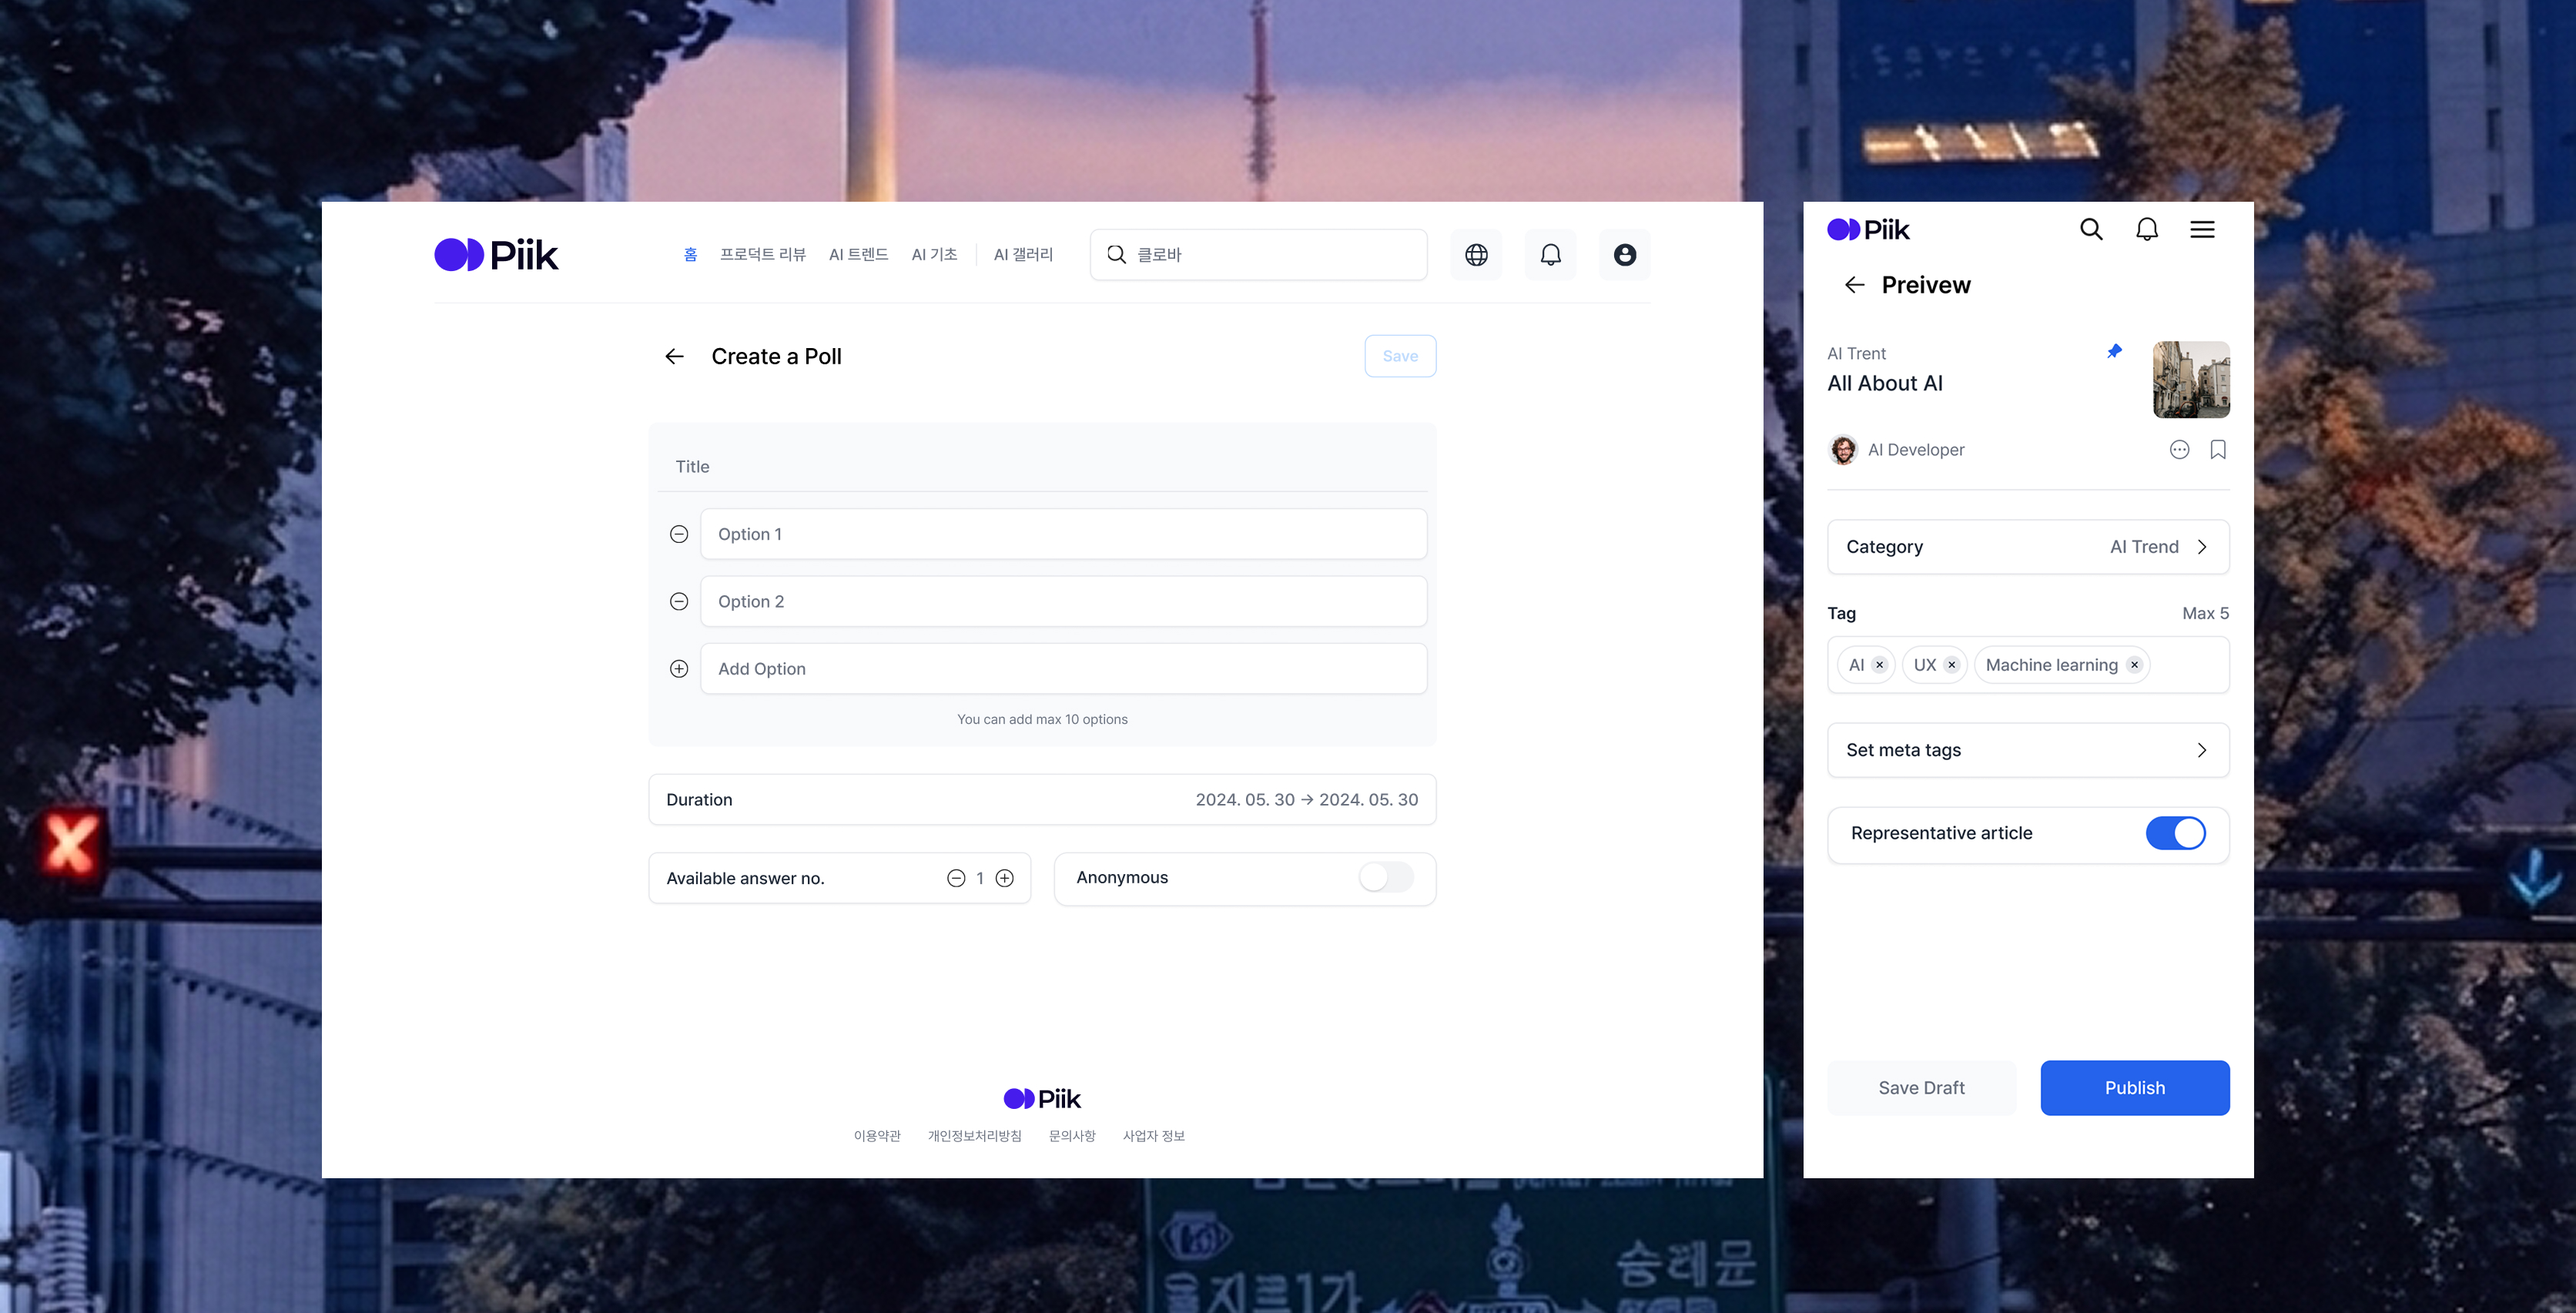
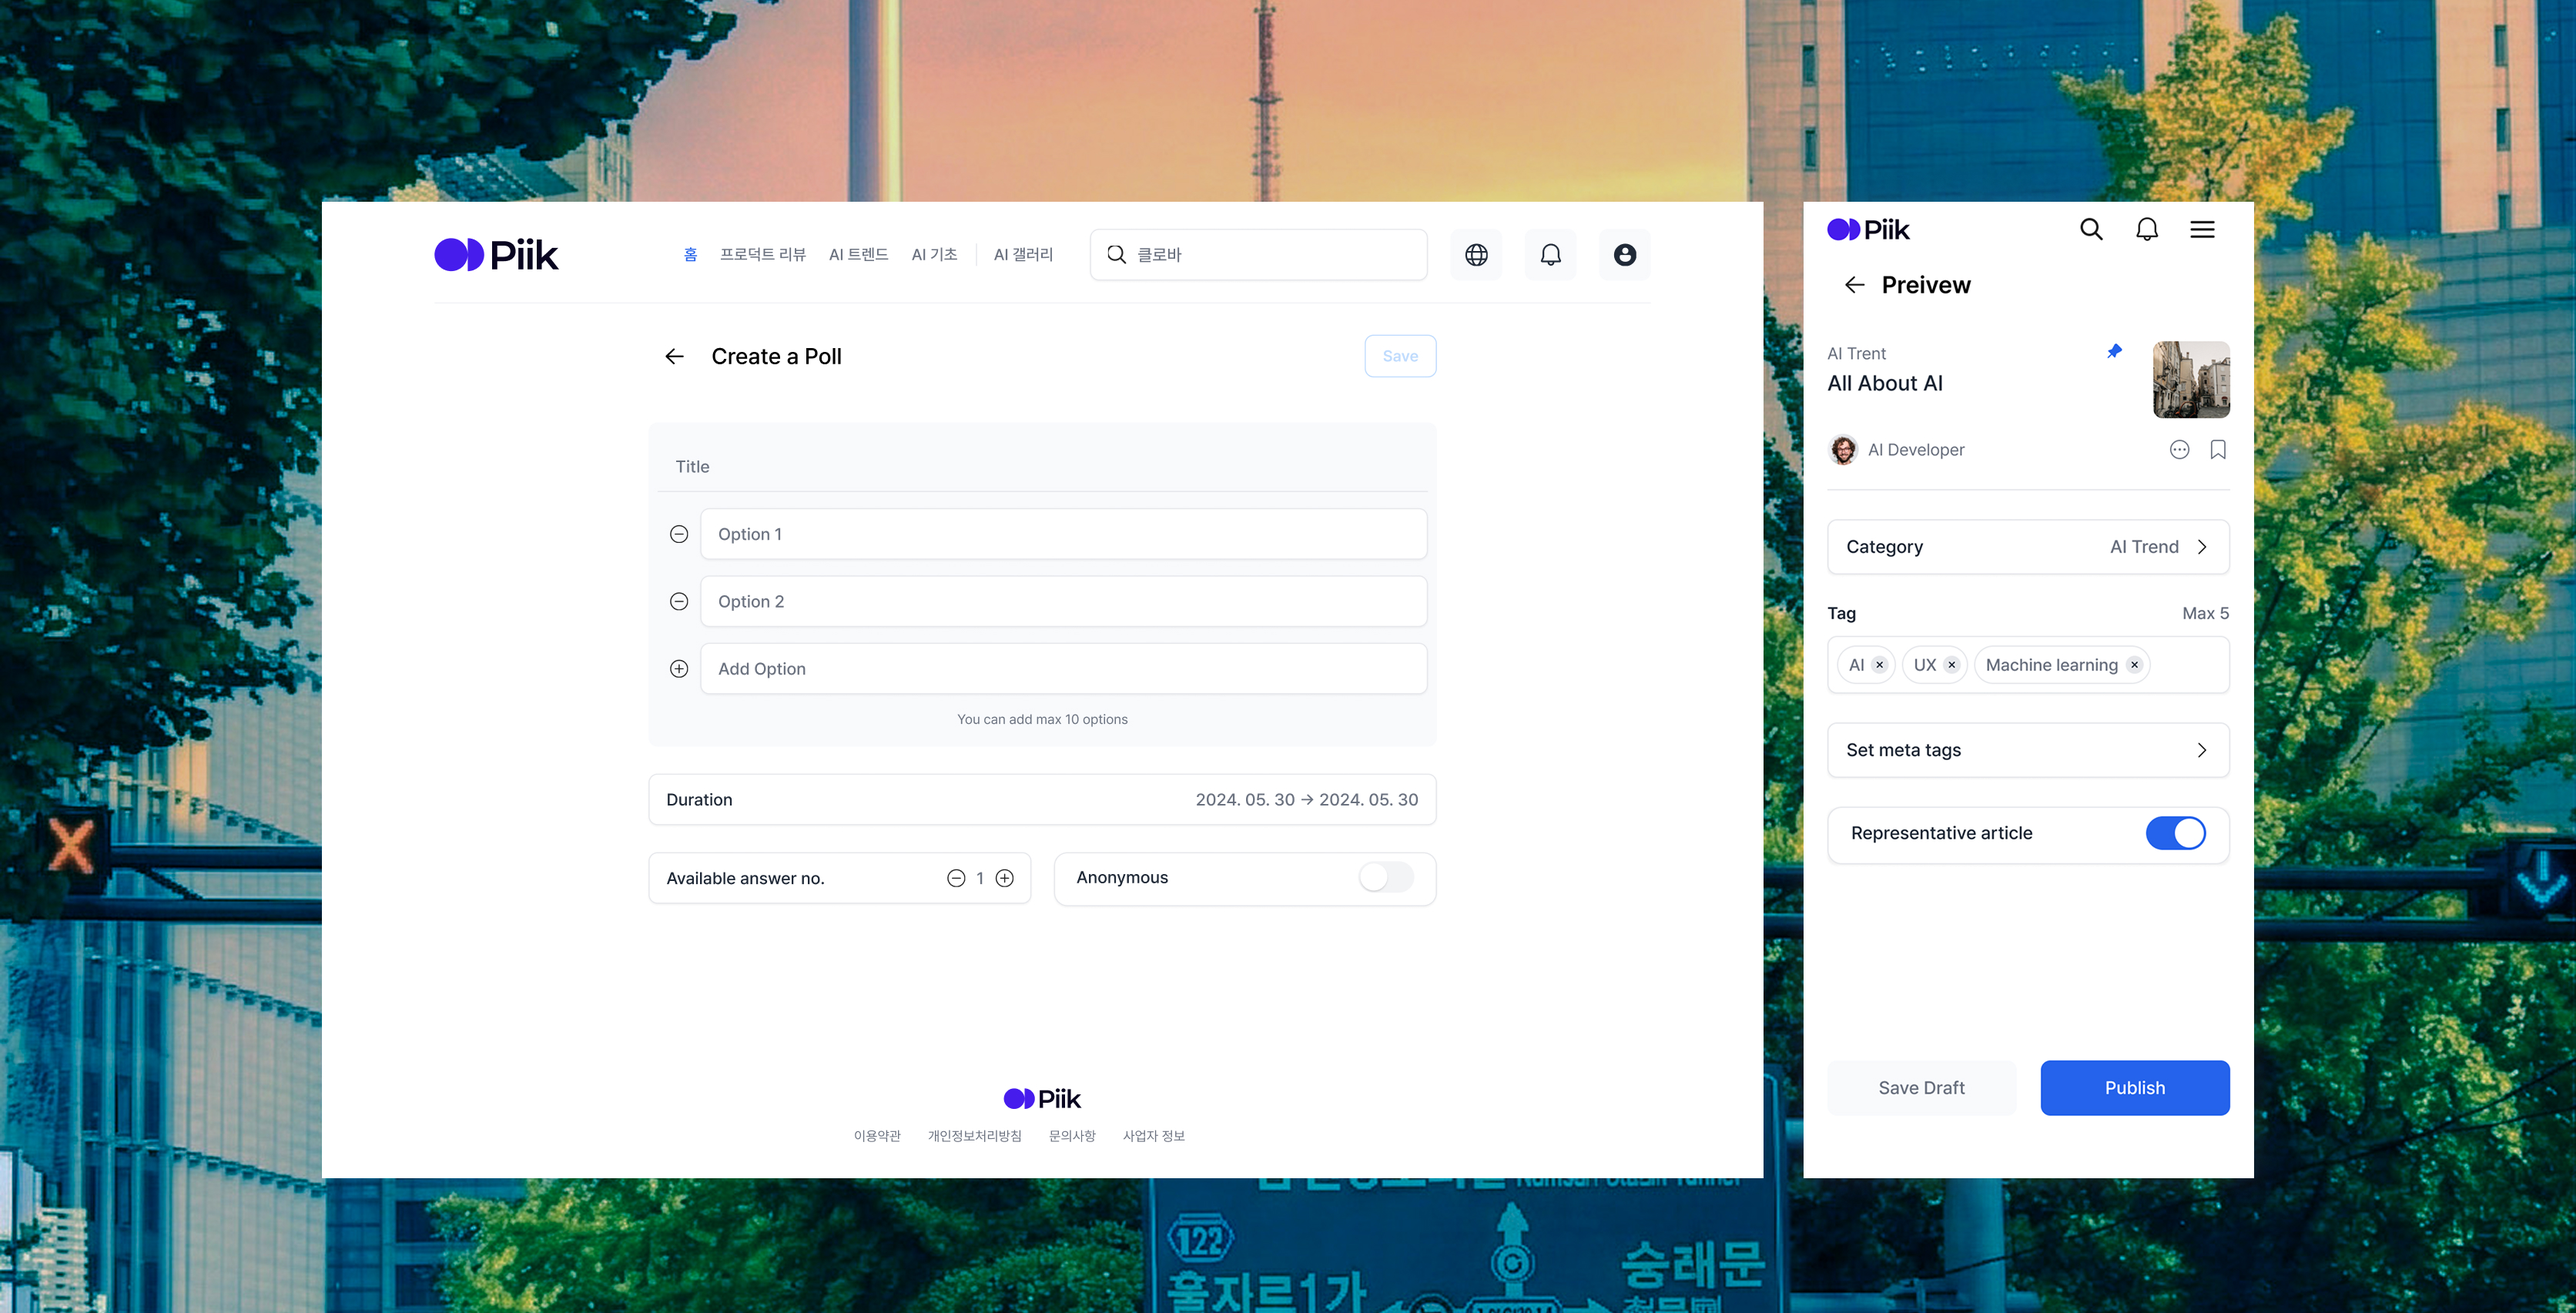
sync changes

diff --git a/src/context/PageThemeContext.tsx b/src/context/PageThemeContext.tsx
@@ -9,20 +9,38 @@ import {
 /** Keep in sync with the inline script in `index.html`. */
 export const THEME_STORAGE_KEY = 'portfolio-theme'
 
-/** Dark unless the user explicitly saved `light` in storage. */
-export function readStoredThemePrefersDark(): boolean {
+export const SYSTEM_DARK_QUERY = '(prefers-color-scheme: dark)'
+
+function readStoredThemeOverride(): 'light' | 'dark' | null {
   try {
     const raw = localStorage.getItem(THEME_STORAGE_KEY)
-    if (raw === 'light') return false
-    return true
+    if (raw === 'light' || raw === 'dark') return raw
+    return null
   } catch {
-    return true
+    return null
   }
 }
 
+export function readSystemPrefersDark(): boolean {
+  if (typeof window === 'undefined') return false
+  return window.matchMedia(SYSTEM_DARK_QUERY).matches
+}
+
+/** Saved override wins; otherwise follow OS light/dark preference. */
+export function resolveThemeIsDark(): boolean {
+  const override = readStoredThemeOverride()
+  if (override === 'light') return false
+  if (override === 'dark') return true
+  return readSystemPrefersDark()
+}
+
+/** @deprecated Prefer `resolveThemeIsDark` — kept for existing call sites. */
+export function readStoredThemePrefersDark(): boolean {
+  return resolveThemeIsDark()
+}
+
 function readInitialIsDark(): boolean {
-  if (typeof window === 'undefined') return true
-  return readStoredThemePrefersDark()
+  return resolveThemeIsDark()
 }
 
 export function applyDocumentTheme(isDark: boolean) {
@@ -47,7 +65,7 @@ interface PageThemeContextValue {
 }
 
 const PageThemeContext = createContext<PageThemeContextValue>({
-  isDark: true,
+  isDark: false,
   setIsDark: () => {},
   toggleTheme: () => {},
   setThemePersisted: () => {},
@@ -61,6 +79,18 @@ export function PageThemeProvider({ children }: { children: React.ReactNode }) {
   useLayoutEffect(() => {
     applyDocumentTheme(isDark)
   }, [isDark])
+
+  // When no saved override, track OS theme changes.
+  useLayoutEffect(() => {
+    const mq = window.matchMedia(SYSTEM_DARK_QUERY)
+    const syncWithSystem = () => {
+      if (readStoredThemeOverride() != null) return
+      setIsDarkState(mq.matches)
+    }
+    syncWithSystem()
+    mq.addEventListener('change', syncWithSystem)
+    return () => mq.removeEventListener('change', syncWithSystem)
+  }, [])
 
   const setIsDark = useCallback((v: boolean) => {
     setIsDarkState(v)

diff --git a/src/TestPiik.tsx b/src/TestPiik.tsx
@@ -14,18 +14,24 @@ import { usePageTheme } from './context/PageThemeContext'
 
 const PIIK_BG_HERO = 'bg-[#E6EEFF]'
 const PIIK_BG_LIGHT = 'bg-[#F7F9FF]'
+/** Soft violet — scroll bg for “Listening to Our Users” only. */
+const PIIK_BG_LISTENING = 'bg-[#EDE7F6]'
 const PIIK_BG_CATALYST = 'bg-[#24324A]'
 const PIIK_BG_SOLUTION_1 = 'bg-[#121A2A]'
 const PIIK_BG_SOLUTION_2 = 'bg-[#18243A]'
 const PIIK_BG_SOLUTION_3 = 'bg-[#22314D]'
+/** Deep brown — scroll bg for “Why Do Our Users Want More Features?” only. */
+const PIIK_BG_RESEARCH = 'bg-[#2E2118]'
 
 const piikLightModeColors = [
   '#E6EEFF',
   '#F7F9FF',
+  '#EDE7F6',
   '#24324A',
   '#121A2A',
   '#18243A',
   '#22314D',
+  '#2E2118',
 ] as const
 
 function invertLightnessToDark(hex: string): string {
@@ -63,15 +69,18 @@ const piikHeroDarkColor = invertLightnessToDark('#24324A')
 const PIIK_BG_COLOR_INDEX: Record<string, number> = {
   [PIIK_BG_HERO]: 0,
   [PIIK_BG_LIGHT]: 1,
-  [PIIK_BG_CATALYST]: 2,
-  [PIIK_BG_SOLUTION_1]: 3,
-  [PIIK_BG_SOLUTION_2]: 4,
-  [PIIK_BG_SOLUTION_3]: 5,
+  [PIIK_BG_LISTENING]: 2,
+  [PIIK_BG_CATALYST]: 3,
+  [PIIK_BG_SOLUTION_1]: 4,
+  [PIIK_BG_SOLUTION_2]: 5,
+  [PIIK_BG_SOLUTION_3]: 6,
+  [PIIK_BG_RESEARCH]: 7,
 }
 
 const PIIK_SECTION_BG: Record<string, string> = {
+  'Listening to Our Users': PIIK_BG_LISTENING,
   'The Catalyst': PIIK_BG_CATALYST,
-  'Why Do Our Users Want More Features?': PIIK_BG_LIGHT,
+  'Why Do Our Users Want More Features?': PIIK_BG_RESEARCH,
   'Unpacking the Solution 01': PIIK_BG_SOLUTION_1,
   'Unpacking the Solution 02': PIIK_BG_SOLUTION_2,
   'Unpacking the Solution 03': PIIK_BG_SOLUTION_3,
@@ -79,8 +88,9 @@ const PIIK_SECTION_BG: Record<string, string> = {
 }
 
 const PIIK_SECTION_THEME: Record<string, 'light' | 'dark'> = {
+  'Listening to Our Users': 'light',
   'The Catalyst': 'dark',
-  'Why Do Our Users Want More Features?': 'light',
+  'Why Do Our Users Want More Features?': 'dark',
   'Unpacking the Solution 01': 'dark',
   'Unpacking the Solution 02': 'dark',
   'Unpacking the Solution 03': 'dark',

diff --git a/index.html b/index.html
@@ -1,11 +1,12 @@
 <!doctype html>
-<html lang="en" class="dark">
+<html lang="en">
   <head>
     <meta charset="UTF-8" />
     <link rel="icon" type="image/png" href="/favicon.png" />
     <link rel="apple-touch-icon" href="/favicon.png" />
     <link rel="manifest" href="/site.webmanifest" />
-    <meta name="theme-color" content="#111111" />
+    <meta name="theme-color" content="#faf7f0" media="(prefers-color-scheme: light)" />
+    <meta name="theme-color" content="#111111" media="(prefers-color-scheme: dark)" />
     <meta name="viewport" content="width=device-width, initial-scale=1.0, viewport-fit=cover" />
     <title>portfolio</title>
     <link rel="preconnect" href="https://fonts.googleapis.com" />
@@ -19,7 +20,7 @@
       rel="stylesheet"
     />
     <!--
-      Critical theme: parsed before first paint. Matches PageThemeContext (dark default; light only when storage is `light`).
+      Critical theme: parsed before first paint. Matches PageThemeContext (saved override, else OS preference).
       next-themes equivalent: attribute="class" + enableSystem — class on <html> is immediate; no transition here.
     -->
     <style id="portfolio-theme-critical">
@@ -43,7 +44,12 @@
         try {
           var key = 'portfolio-theme'
           var raw = localStorage.getItem(key)
-          var dark = raw !== 'light'
+          var dark =
+            raw === 'light'
+              ? false
+              : raw === 'dark'
+                ? true
+                : window.matchMedia('(prefers-color-scheme: dark)').matches
           document.documentElement.classList.toggle('dark', dark)
           document.documentElement.dataset.theme = dark ? 'dark' : 'light'
           document.documentElement.style.colorScheme = dark ? 'dark' : 'light'
